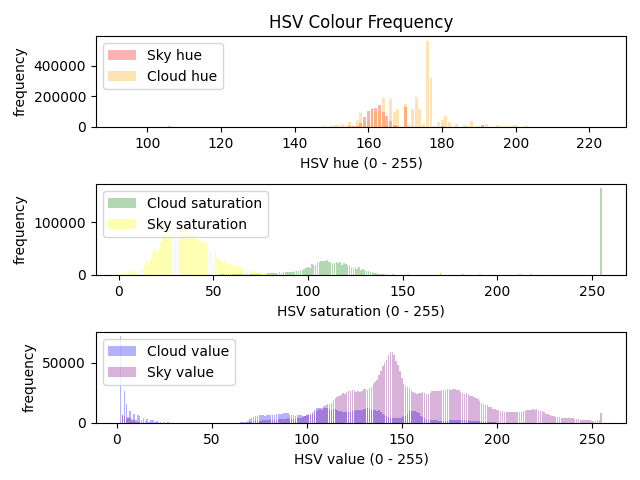
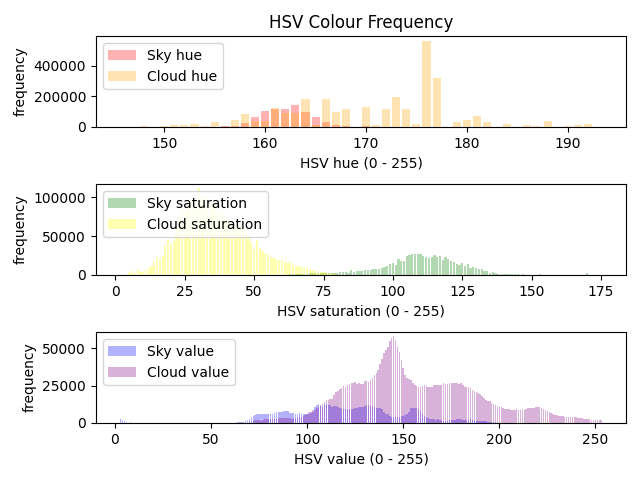
holy moly I'm actually cooked

diff --git a/src/Server/analysis/separate.py b/src/Server/analysis/separate.py
@@ -60,6 +60,15 @@ def separate_datasets(blocked_image_folder: str, reference_image_folder: str) ->
     An assumption of this function is that all images are of the same size.
     As to not raise an error
     """
+
+    if not os.path.exists(blocked_image_folder):
+        debug(f"Bad path: {blocked_image_folder} does not exist.")
+        return None
+
+    if not os.path.exists(reference_image_folder)):
+        debug(f"Bad path: {reference_image_folder} does not exist.")
+        return None
+
     count = 1
     for (ref_root, _, referenceImages), (blc_root, _, blockedImages) in zip(os.walk(reference_image_folder), os.walk(blocked_image_folder)):
         for ref, blc in zip(referenceImages, blockedImages):
@@ -76,6 +85,23 @@ def filesync(blc:str, ref:str, cld:str, sky:str) -> bool:
     """
     Make sure filenames are synced before running.
     """
+
+    if not os.path.exists(blc):
+        debug(f"Bad path: {blc} does not exist.")
+        return False
+
+    if not os.path.exists(ref):
+        debug(f"Bad path: {ref} does not exist.")
+        return False
+    
+    if not os.path.exists(cld):
+        debug(f"Bad path: {cld} does not exist.")
+        return False
+    
+    if not os.path.exists(sky):
+        debug(f"Bad path: {sky} does not exist.")
+        return False
+
     for (_, _, b_imgs), (_, _, r_imgs),(_, _, c_imgs),(_, _, s_imgs) in zip (os.walk(blc),os.walk(ref),os.walk(cld),os.walk(sky)):
         for b_img, r_img, c_img, s_img in zip(b_imgs, r_imgs, c_imgs, s_imgs):
             if not (b_img == r_img == c_img == s_img):

diff --git a/src/Server/analysis/extract.py b/src/Server/analysis/extract.py
@@ -3,6 +3,8 @@ from src.Server.analysis.config import *
 from typing import Callable
 from scipy import stats
 
+
+
 def get_tags(colour_index:int) -> list[list[str, str, str], str]:
     """
     Get the colour tags and accompanying label for a given index.
@@ -56,7 +58,7 @@ def __process_YBR(image: NDArray) -> NDArray:
     non_black_data = np.column_stack((Y[non_black_indices], b[non_black_indices], r[non_black_indices]))
     return non_black_data
 
-def __count(xyz_sk: NDArray) -> NDArray:
+def count(xyz_sk: NDArray) -> NDArray:
     """
     Return a frequency table of the integers in an input array
     """
@@ -118,12 +120,12 @@ def remove_outliers_iqr(data: NDArray) -> NDArray:
     Remove outliers from data using IQR.
     Data points that fall below Q1 - 1.5 IQR or above the third quartile Q3 + 1.5 IQR are outliers.
     """
-    Q1 = np.percentile(data, 25)
-    Q3 = np.percentile(data, 75)
+    Q1 = np.percentile(data, 25, axis=0)  # Calculate Q1 along columns (axis=0)
+    Q3 = np.percentile(data, 75, axis=0)  # Calculate Q3 along columns (axis=0)
     IQR = Q3 - Q1
     lower_bound = Q1 - 1.5 * IQR
     upper_bound = Q3 + 1.5 * IQR
-    return data[(data >= lower_bound) & (data <= upper_bound)]
+    return data[((data >= lower_bound) & (data <= upper_bound)).all(axis=1)]  # Ensure 2D structure is preserved
 
 def remove_outliers_z_score(data: NDArray, threshold: float = 3.0) -> NDArray:
     """

diff --git a/src/Server/analysis/graphing/colour_graphs.py b/src/Server/analysis/graphing/colour_graphs.py
@@ -91,15 +91,15 @@ def distributionBarGraphGenerator(x, y, z, components: list[str,str,str], colour
     axes1[0].legend(loc="upper left")
     del x_s, x_c
 
-    axes1[1].bar(y_s[:,0], y_s[:,1], color = 'green', alpha= 0.3, label = f'Cloud {components[1]}')
-    axes1[1].bar(y_c[:,0], y_c[:,1], color = 'yellow', alpha = 0.3, label = f'Sky {components[1]}')
+    axes1[1].bar(y_s[:,0], y_s[:,1], color = 'green', alpha= 0.3, label = f'Sky {components[1]}')
+    axes1[1].bar(y_c[:,0], y_c[:,1], color = 'yellow', alpha = 0.3, label = f'Cloud {components[1]}')
     axes1[1].set_xlabel(f'{colour_tag} {components[1]} (0 - 255)')
     axes1[1].set_ylabel('frequency')
     axes1[1].legend(loc="upper left")
     del y_s, y_c
 
-    axes1[2].bar( z_s[:,0], z_s[:,1], color = 'blue', alpha= 0.3, label = f'Cloud {components[2]}')
-    axes1[2].bar(z_c[:,0], z_c[:,1], color = 'purple', alpha = 0.3, label = f'Sky {components[2]}')
+    axes1[2].bar( z_s[:,0], z_s[:,1], color = 'blue', alpha= 0.3, label = f'Sky {components[2]}')
+    axes1[2].bar(z_c[:,0], z_c[:,1], color = 'purple', alpha = 0.3, label = f'Cloud {components[2]}')
     axes1[2].set_xlabel(f'{colour_tag} {components[2]} (0 - 255)')
     axes1[2].set_ylabel('frequency')
     axes1[2].legend(loc="upper left")

diff --git a/src/Server/onboard/comm.cpp b/src/Server/onboard/comm.cpp
@@ -213,9 +213,8 @@ void send(HTTPClient *https, Network *network, const String& timestamp) {
 /**
  * Send statuses of sensors to HOST on specified PORT. 
  */
-void sendStats(Network *network, Sensors::Status *stat, const String& timestamp) {
+void sendStats(HTTPClient *https, Network *network, Sensors::Status *stat, const String& timestamp) {
     debugln("\n[STATUS]");
-    HTTPClient https;
     const String values ="sht="  + String(stat -> SHT) +
                         "&bmp=" + String(stat -> BMP) +
                         "&cam=" + String(stat -> CAM);
@@ -226,13 +225,13 @@ void sendStats(Network *network, Sensors::Status *stat, const String& timestamp)
     url.concat(network -> routes.STATUS);
     url.concat("?" + values);
 
-    https.begin(*network -> CLIENT, url);
+    https -> begin(*network -> CLIENT, "https://devinci.cloud/api/status?sht=0&bmp=0&cam=0");
 
     debugln(url);
 
-    send(&https, network, timestamp);
+    send(https, network, timestamp);
 
-    https.end();
+    //https -> end();
 
 }
 

diff --git a/src/Server/analysis/calibrate.py b/src/Server/analysis/calibrate.py
@@ -34,7 +34,7 @@ def __load_config() -> Dict:
     """
     return load_toml(calibration_config)
 
-def __calibrate() -> Tuple[Matlike, Matlike, Sequence[Matlike], Sequence[Matlike]]:
+def __calibrate(calibration_image_folder: str) -> Tuple[Matlike, Matlike, Sequence[Matlike], Sequence[Matlike]]:
     """
     Calculate camera matrix data via calibration with chessboard images.
     Return camera matrix data.
@@ -59,7 +59,7 @@ def __calibrate() -> Tuple[Matlike, Matlike, Sequence[Matlike], Sequence[Matlike
     # 2d points in image plane.
     imgpoints = [] 
     
-    images = glob.glob(f'{calibration_images}/*.jpg')
+    images = glob.glob(f'{calibration_image_folder}/*.jpg')
 
     for image in images:
 

diff --git a/src/Server/onboard/comm.h b/src/Server/onboard/comm.h
@@ -113,7 +113,7 @@ void OTAUpdate(Network *network, String firmware_version);
 /**
  * Send statuses of sensors to HOST on specified PORT. 
  */
-void sendStats(Network *network, Sensors::Status *stat, const String& timestamp);
+void sendStats(HTTPClient *https, Network *network, Sensors::Status *stat, const String& timestamp);
 
 /**
  * Send readings from weather sensors to HOST on specified PORT. 

diff --git a/src/Server/analysis/visualizer.py b/src/Server/analysis/visualizer.py
@@ -128,3 +128,9 @@ if __name__ == "__main__":
 
 
     cv2.destroyAllWindows() 
+
+
+
+
+
+

diff --git a/notes.md b/notes.md
@@ -1,2 +1,10 @@
 windsheild wiper for lens because it's flat.
 wiper made of same rubber as in car seals. Attach to servo and periodocally wipe.
+
+
+
+
+
+
+
+
